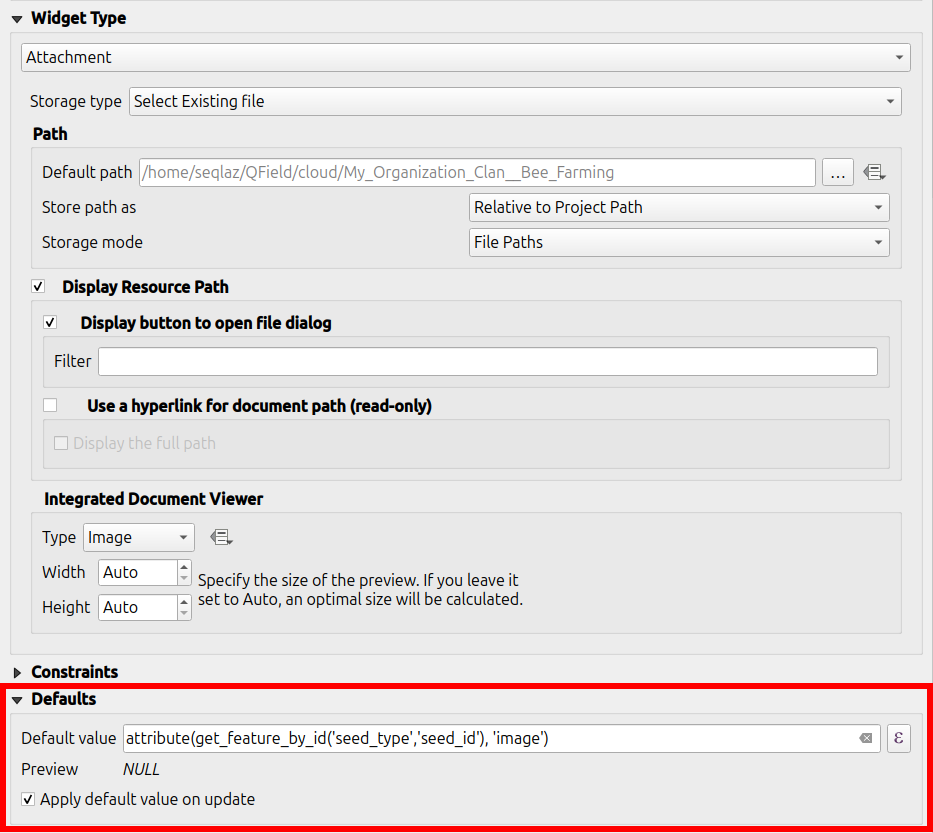
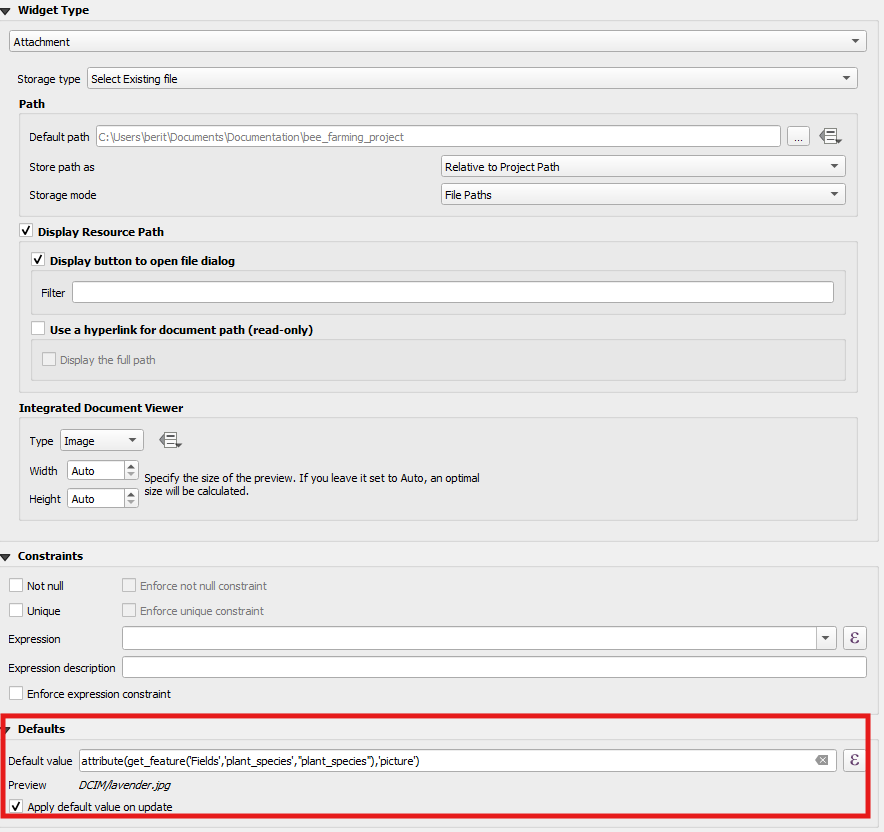
QF-6833_update_live_default_update

Changed region(s): [[0.0, 0.4688, 1.0, 1.0], [0.0, 0.0, 1.0, 0.4375]]

diff --git a/documentation/how-to/advanced-how-tos/live-default-value.en.md b/documentation/how-to/advanced-how-tos/live-default-value.en.md
@@ -5,32 +5,33 @@ tx_slug: documentation_how-to_live-default-value
 
 # Live default value
 
-QField is supporting the "live" updating of default attribute value
-when editing features.
+QField is supporting the "live" updating of default attribute value when editing features.
+This means, when changing one value in an attribute another automatically adjusts.
+Examples for this could be species names that are both recorded with the original species name and the common name.
 
-## Configuration
-:material-monitor: Desktop preparation
+!!! Workflow
 
-To make it work, the attribute has to be set up with another attribute
-dependency.
+    ## Configuration
 
-An example of attribute dependency settings
+    :material-monitor: Desktop preparation
 
-For an *image*:
+    In this example, the image will automatically update when a different plant_species is chosen.
 
-!![live default value image](../../assets/images/live_default1.png)
+    1. Direct to the layer properties, where you want to set the updating value field.
+    2. Go to the 'photos' field and add the following expression into the default value.
+    3. Toggle the *apply default upon update*.
 
-For a *value relation*:
+     !![live default value image](../../assets/images/live_default1.png,700px)
 
-!![live default value relation](../../assets/images/live_default2.png)
+     4. Go to the plant_species field where your *value relation* is set as a widget type.
+     5. Add the following expression as shown below into the default value.
 
-## Usage
-:material-tablet: Fieldwork
+     !![live default value relation](../../assets/images/live_default2.png,700px)
 
-"Live" default value is updating the default attribute values in real time when
-editing features.
+     6. Press Ok and save.
 
-In the video below there is an example of "live" default value updates
-when editing features on QField.
+!!! Example
 
-![type:video](https://player.vimeo.com/video/607220411)<!-- markdown-link-check-disable-line -->
+    In the video below there is an example of "live" default value updates when editing features on QField.
+
+     !![Live_Default_Value](../../assets/videos/live_default_value.webp)
